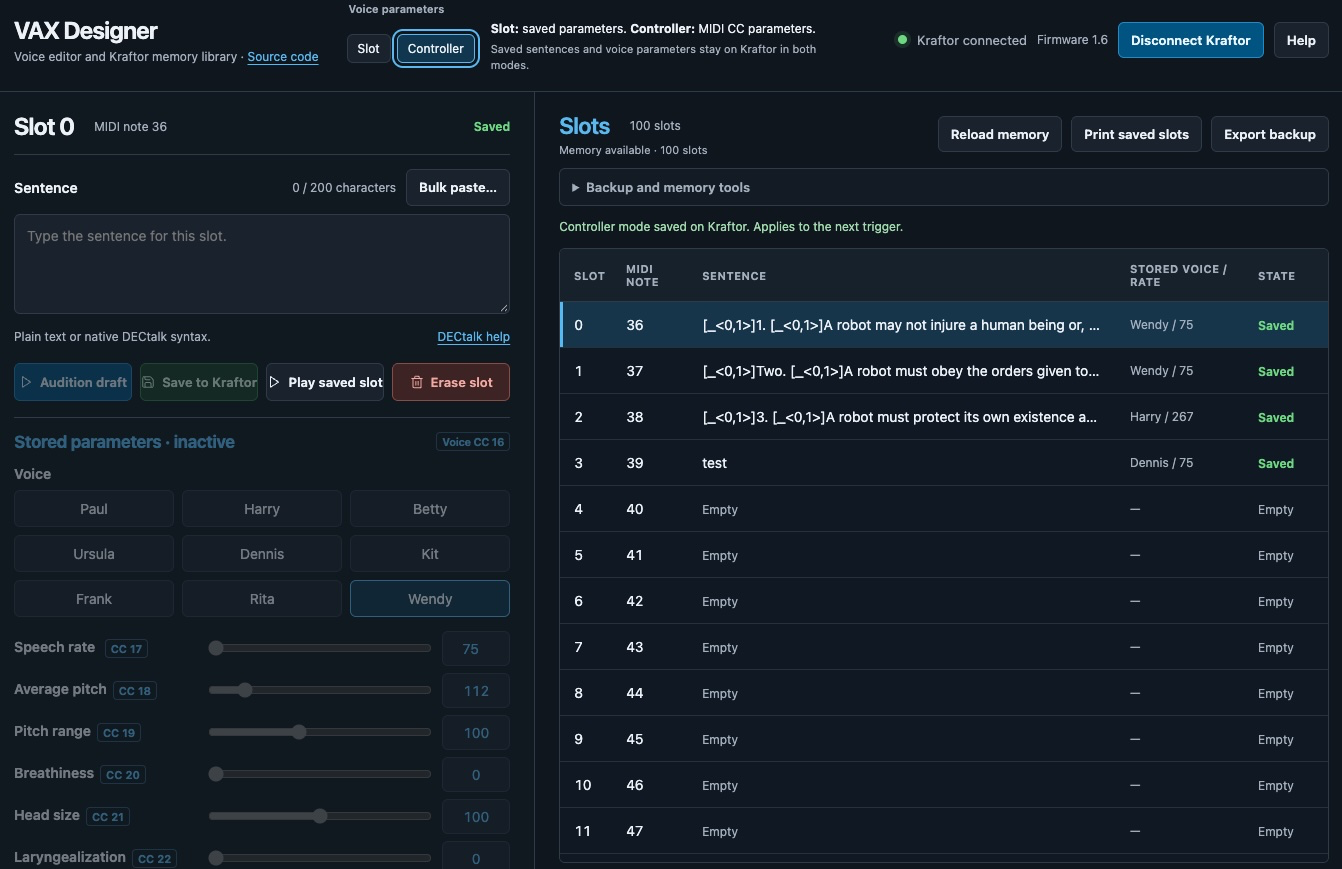
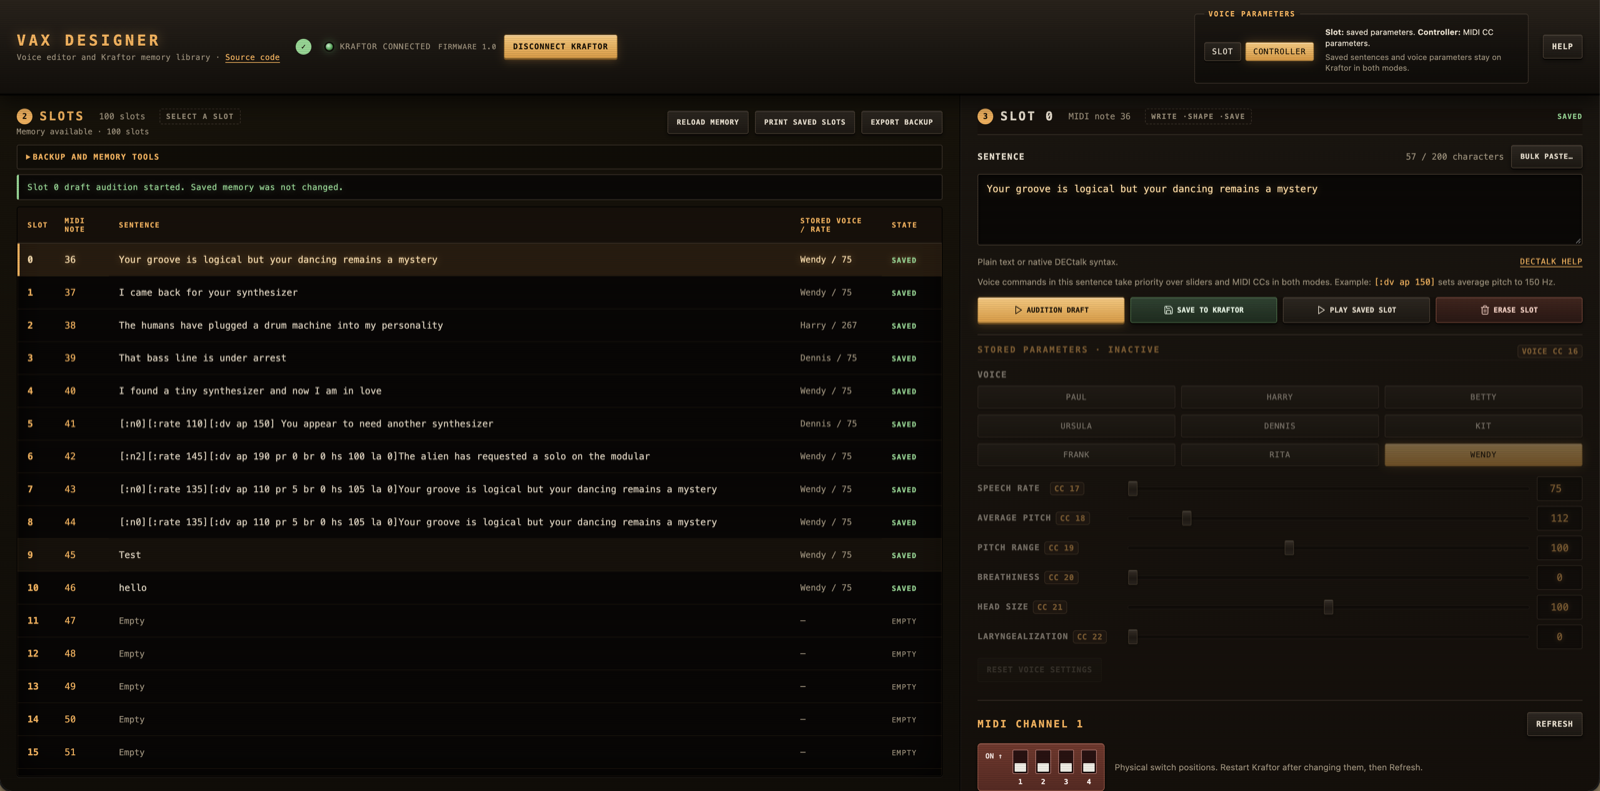
Update the screenshot and correct the slot list side in the instructions

diff --git a/index.html b/index.html
@@ -409,7 +409,7 @@ OR IN CONNECTION WITH THE USE OR PERFORMANCE OF THIS SOFTWARE.
 
   <dialog id="helpDialog" class="help-dialog" aria-labelledby="helpTitle">
     <div class="help-head"><h2 id="helpTitle">Using VAX Designer</h2><button id="helpCloseButton" class="btn" type="button" autofocus>Close help</button></div>
-    <details class="help-topic" open><summary>Edit a sentence</summary><div class="help-topic-body"><ol><li>Connect Kraftor through USB using <strong>Connect Kraftor</strong>.</li><li>Select a slot on the right. Its sentence and voice settings appear on the left.</li><li>Type a sentence or use <strong>Bulk paste…</strong> for one sentence per line. The old <code>@one@two@three</code> format is also accepted in bulk paste.</li><li>Choose <strong>Slot</strong> under <strong>Voice parameters</strong> to adjust the voice and sliders. <strong>Audition draft</strong> plays the unsaved settings. <strong>Save to Kraftor</strong> writes that slot to FRAM.</li></ol><p><strong>Play saved slot</strong> plays its saved sentence using the selected parameter mode. <strong>Reset voice settings</strong> restores the controls and speech rate 75 while keeping the sentence and selected voice.</p><p>You can select slots with the keyboard: Tab to a slot number, then use the arrow keys, Enter or Space.</p></div></details>
+    <details class="help-topic" open><summary>Edit a sentence</summary><div class="help-topic-body"><ol><li>Connect Kraftor through USB using <strong>Connect Kraftor</strong>.</li><li>Select a slot on the left. Its sentence and voice settings appear on the right.</li><li>Type a sentence or use <strong>Bulk paste…</strong> for one sentence per line. The old <code>@one@two@three</code> format is also accepted in bulk paste.</li><li>Choose <strong>Slot</strong> under <strong>Voice parameters</strong> to adjust the voice and sliders. <strong>Audition draft</strong> plays the unsaved settings. <strong>Save to Kraftor</strong> writes that slot to FRAM.</li></ol><p><strong>Play saved slot</strong> plays its saved sentence using the selected parameter mode. <strong>Reset voice settings</strong> restores the controls and speech rate 75 while keeping the sentence and selected voice.</p><p>You can select slots with the keyboard: Tab to a slot number, then use the arrow keys, Enter or Space.</p></div></details>
     <details class="help-topic"><summary>Voice parameters: Slot or Controller</summary><div class="help-topic-body"><p>This is one global choice for all slots. <strong>Slot</strong> uses each sentence's saved voice parameters: voice, rate and design. <strong>Controller</strong> uses MIDI CC16–22 for the voice; the slot supplies the sentence. Saved sentences and their voice parameters remain stored on Kraftor in both modes. Controller mode does not apply the stored parameters. Voice sliders are disabled in Controller mode; saving a sentence preserves its stored parameters.</p><p>The choice is saved on Kraftor and restored at startup. Turn a controller knob, then trigger a note to hear its value; turning it during speech affects the next trigger. With CC map version 2, each selected voice keeps its natural design unless you adjust CC18–22. Adjusted parameters stay active across voice changes. CC121 clears those adjustments and returns to Paul at rate 75. Controller values are kept in RAM, so send them again after restarting. Voice commands embedded in a sentence take priority over MIDI CCs, even in Controller mode. For controller-driven speech, remove embedded voice, rate and design commands from the Sentence box.</p><p>A new note replaces the current phrase. Rapid presses keep only the latest pending trigger. Key release does not stop speech.</p></div></details>
     <details id="dectalkHelpTopic" class="help-topic"><summary>DECtalk native format: speech, phonetics and singing</summary><div class="help-topic-body">
       <p>The Sentence box accepts real DECtalk commands and phonetics directly. The selected voice parameters are applied first; your native sentence follows unchanged. Type or paste these examples into the same <strong>Sentence</strong> box. Click <strong>Audition draft</strong> to listen, then <strong>Save to Kraftor</strong> to keep the phrase.</p>

diff --git a/README.md b/README.md
@@ -9,7 +9,7 @@ Kraftor's FRAM memory, then trigger them by MIDI with Kraftor running standalone
 
 1. Connect Kraftor with a USB data cable and open `index.html` in a browser that supports USB MIDI device access.
 2. Click **Connect Kraftor** and allow access. The connected firmware version appears beside the connection status.
-3. Select a slot on the right. Choose **Slot** under **Voice parameters** to edit its voice settings.
+3. Select a slot on the left. Choose **Slot** under **Voice parameters** to edit its voice settings.
 4. Enter a sentence, choose a voice and adjust the sliders. **Audition draft** lets you hear it before saving.
 5. Click **Save to Kraftor**. **Play saved slot** plays the saved sentence using the selected parameter mode.
 
